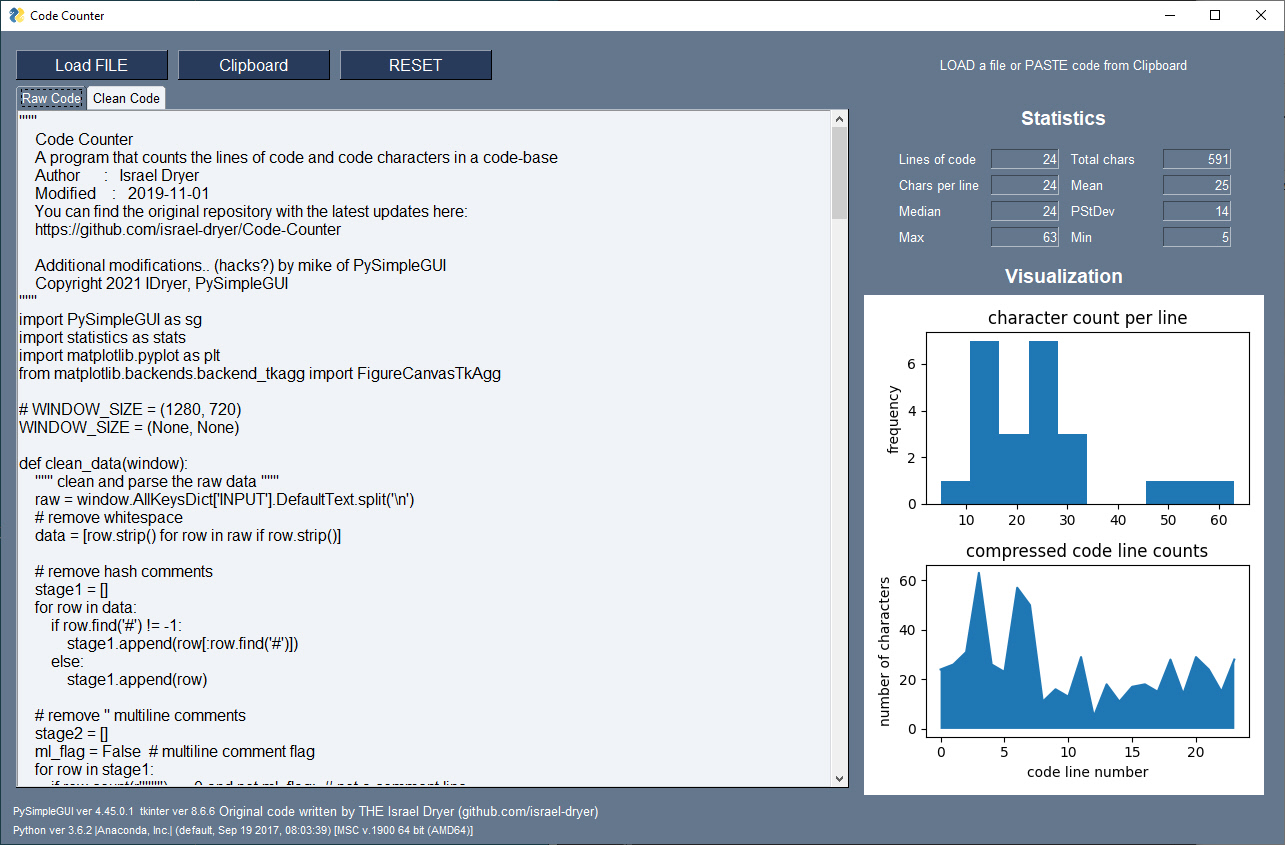
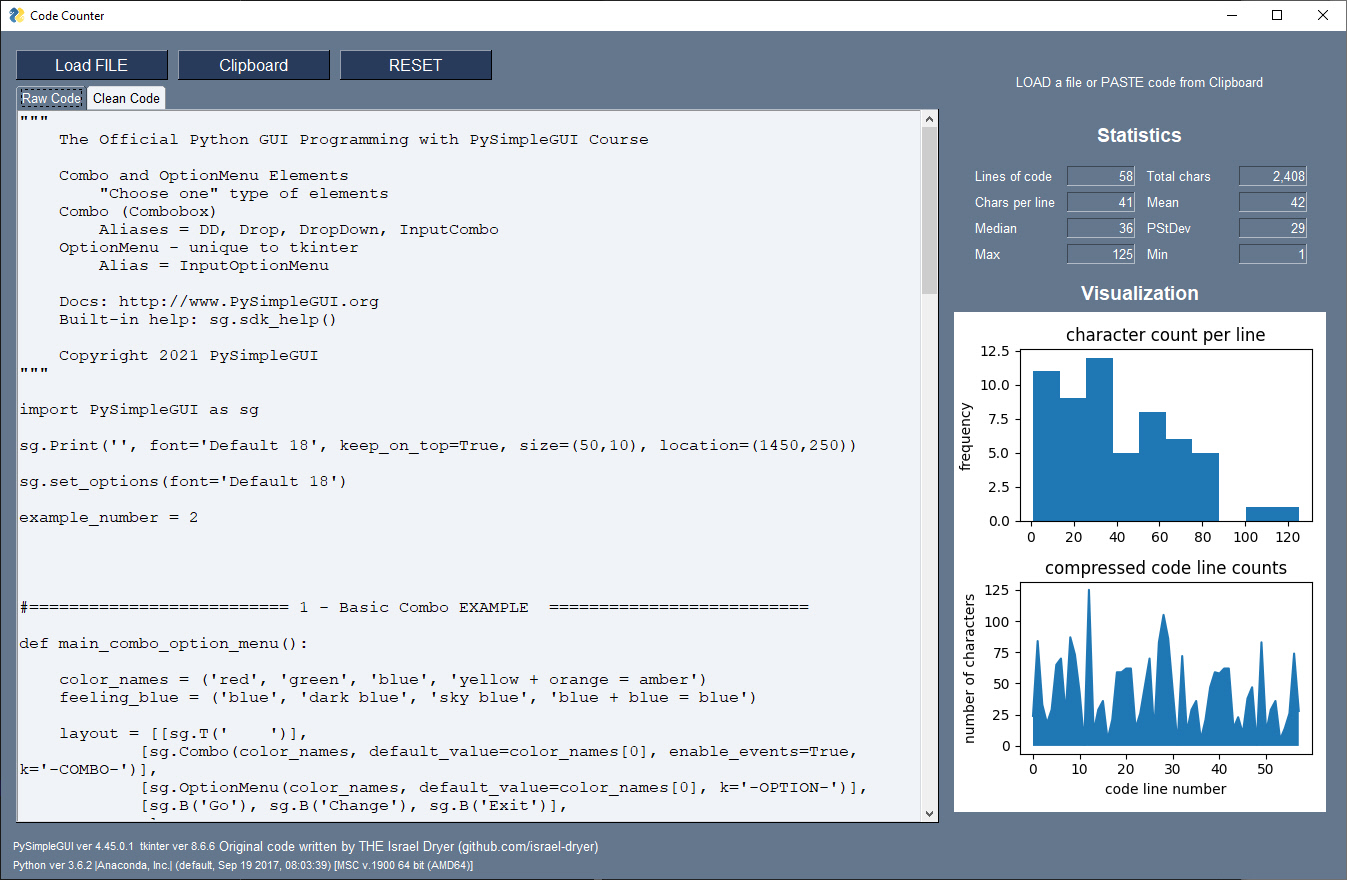
Another screenshot since my last on was bad...

Changed region(s): [[0.0, 0.0, 0.9961, 1.0], [0.249, 0.6769, 0.5914, 0.7077]]

diff --git a/code_counter.py b/code_counter.py
@@ -197,10 +197,10 @@ def main():
     sg.ChangeLookAndFeel('BrownBlue')
 
     tab1 = sg.Tab('Raw Code',
-                  [[sg.Multiline(key='INPUT', size=(90,30), pad=(0, 0), font=(sg.DEFAULT_FONT, 12))]],
+                  [[sg.Multiline(key='INPUT', size=(90,30), pad=(0, 0), font=('Courier', 12))]],
                   background_color='gray', key='T1')
     tab2 = sg.Tab('Clean Code',
-                  [[sg.Multiline(key='OUTPUT', size=(90,30), pad=(0, 0), font=(sg.DEFAULT_FONT, 12))]],
+                  [[sg.Multiline(key='OUTPUT', size=(90,30), pad=(0, 0), font=('Courier', 12))]],
                   background_color='gray25', key='T2')
 
     stat_col = sg.Column([
@@ -219,11 +219,9 @@ def main():
 
     rt_col = [
         [sg.Text('LOAD a file or PASTE code from Clipboard', pad=(5, 15))],
-        [sg.Text('Statistics', size=(20, 1), pad=((5, 5), (15, 5)),
-                 font=(sg.DEFAULT_FONT, 14, 'bold'), justification='center')],
+        [sg.Text('Statistics', size=(20, 1), pad=((5, 5), (15, 5)), font=(sg.DEFAULT_FONT, 14, 'bold'), justification='center')],
         [stat_col],
-        [sg.Text('Visualization', size=(20, 1),
-                 font=(sg.DEFAULT_FONT, 14, 'bold'), justification='center')],
+        [sg.Text('Visualization', size=(20, 1), font=(sg.DEFAULT_FONT, 14, 'bold'), justification='center')],
         [sg.Canvas(key='IMG')]]
 
     layout = [[sg.Column(lf_col, element_justification='left', pad=(0, 10), key='LCOL', expand_x=True, expand_y=True),
